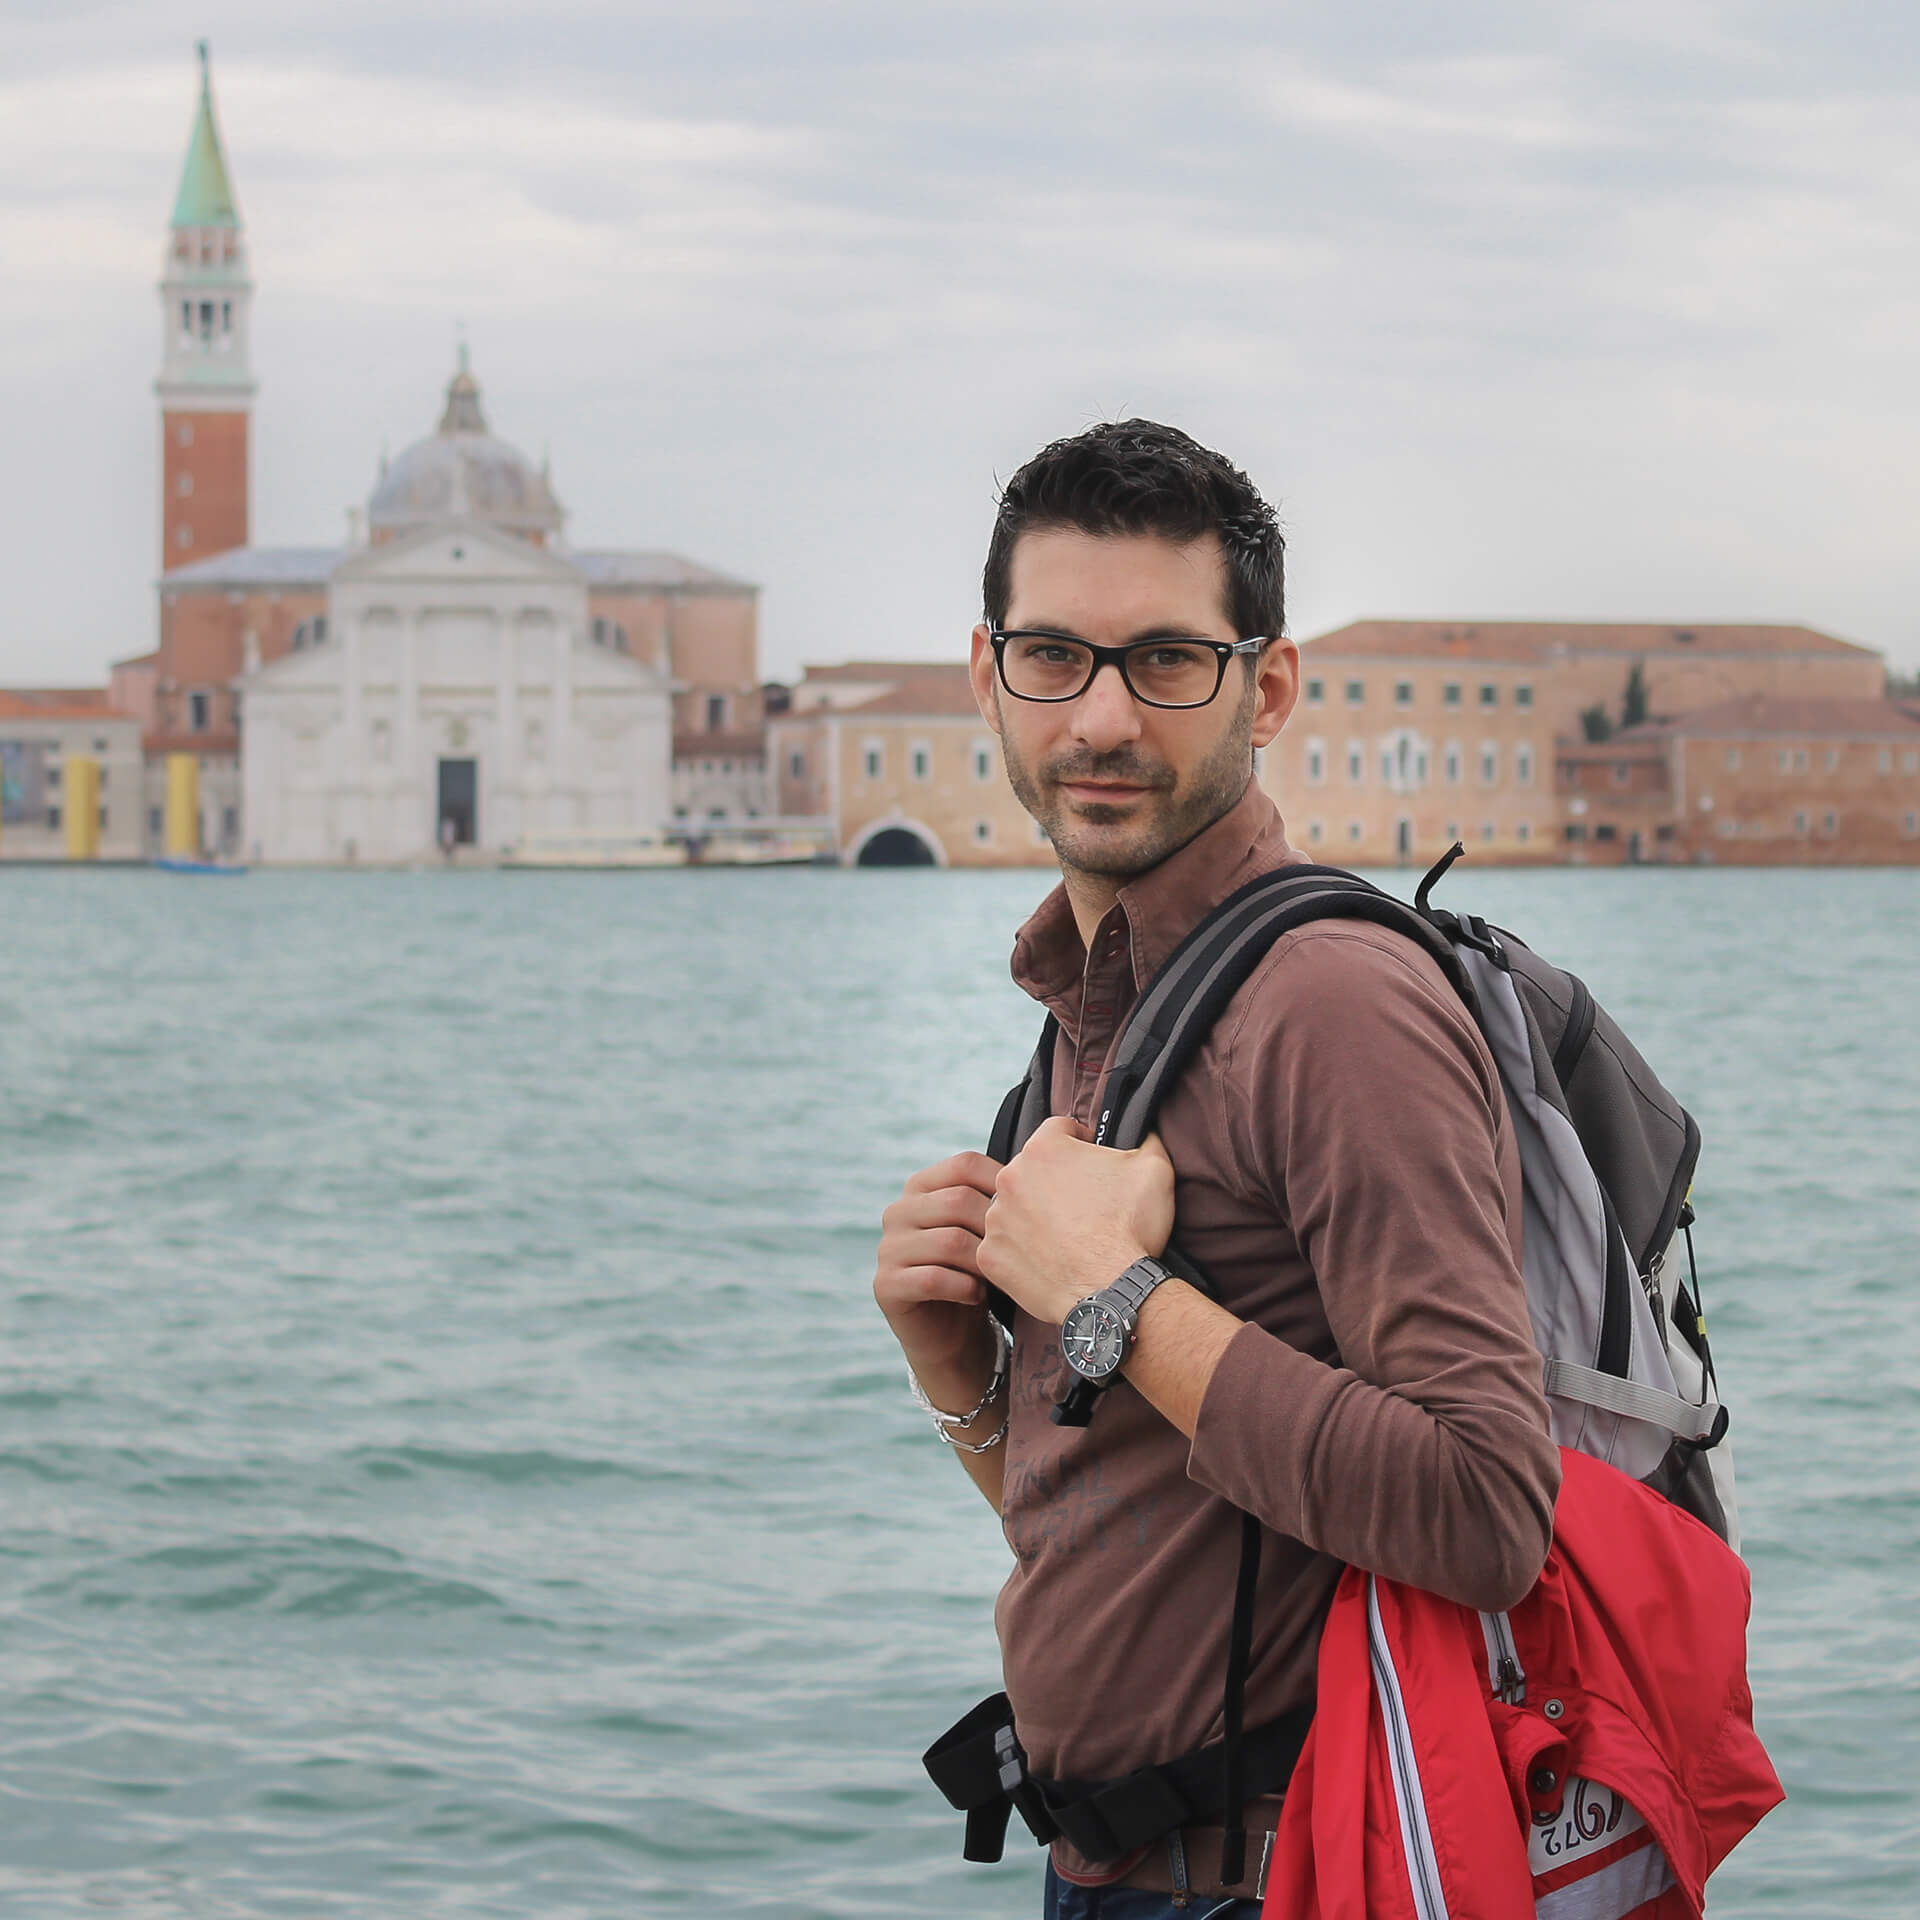
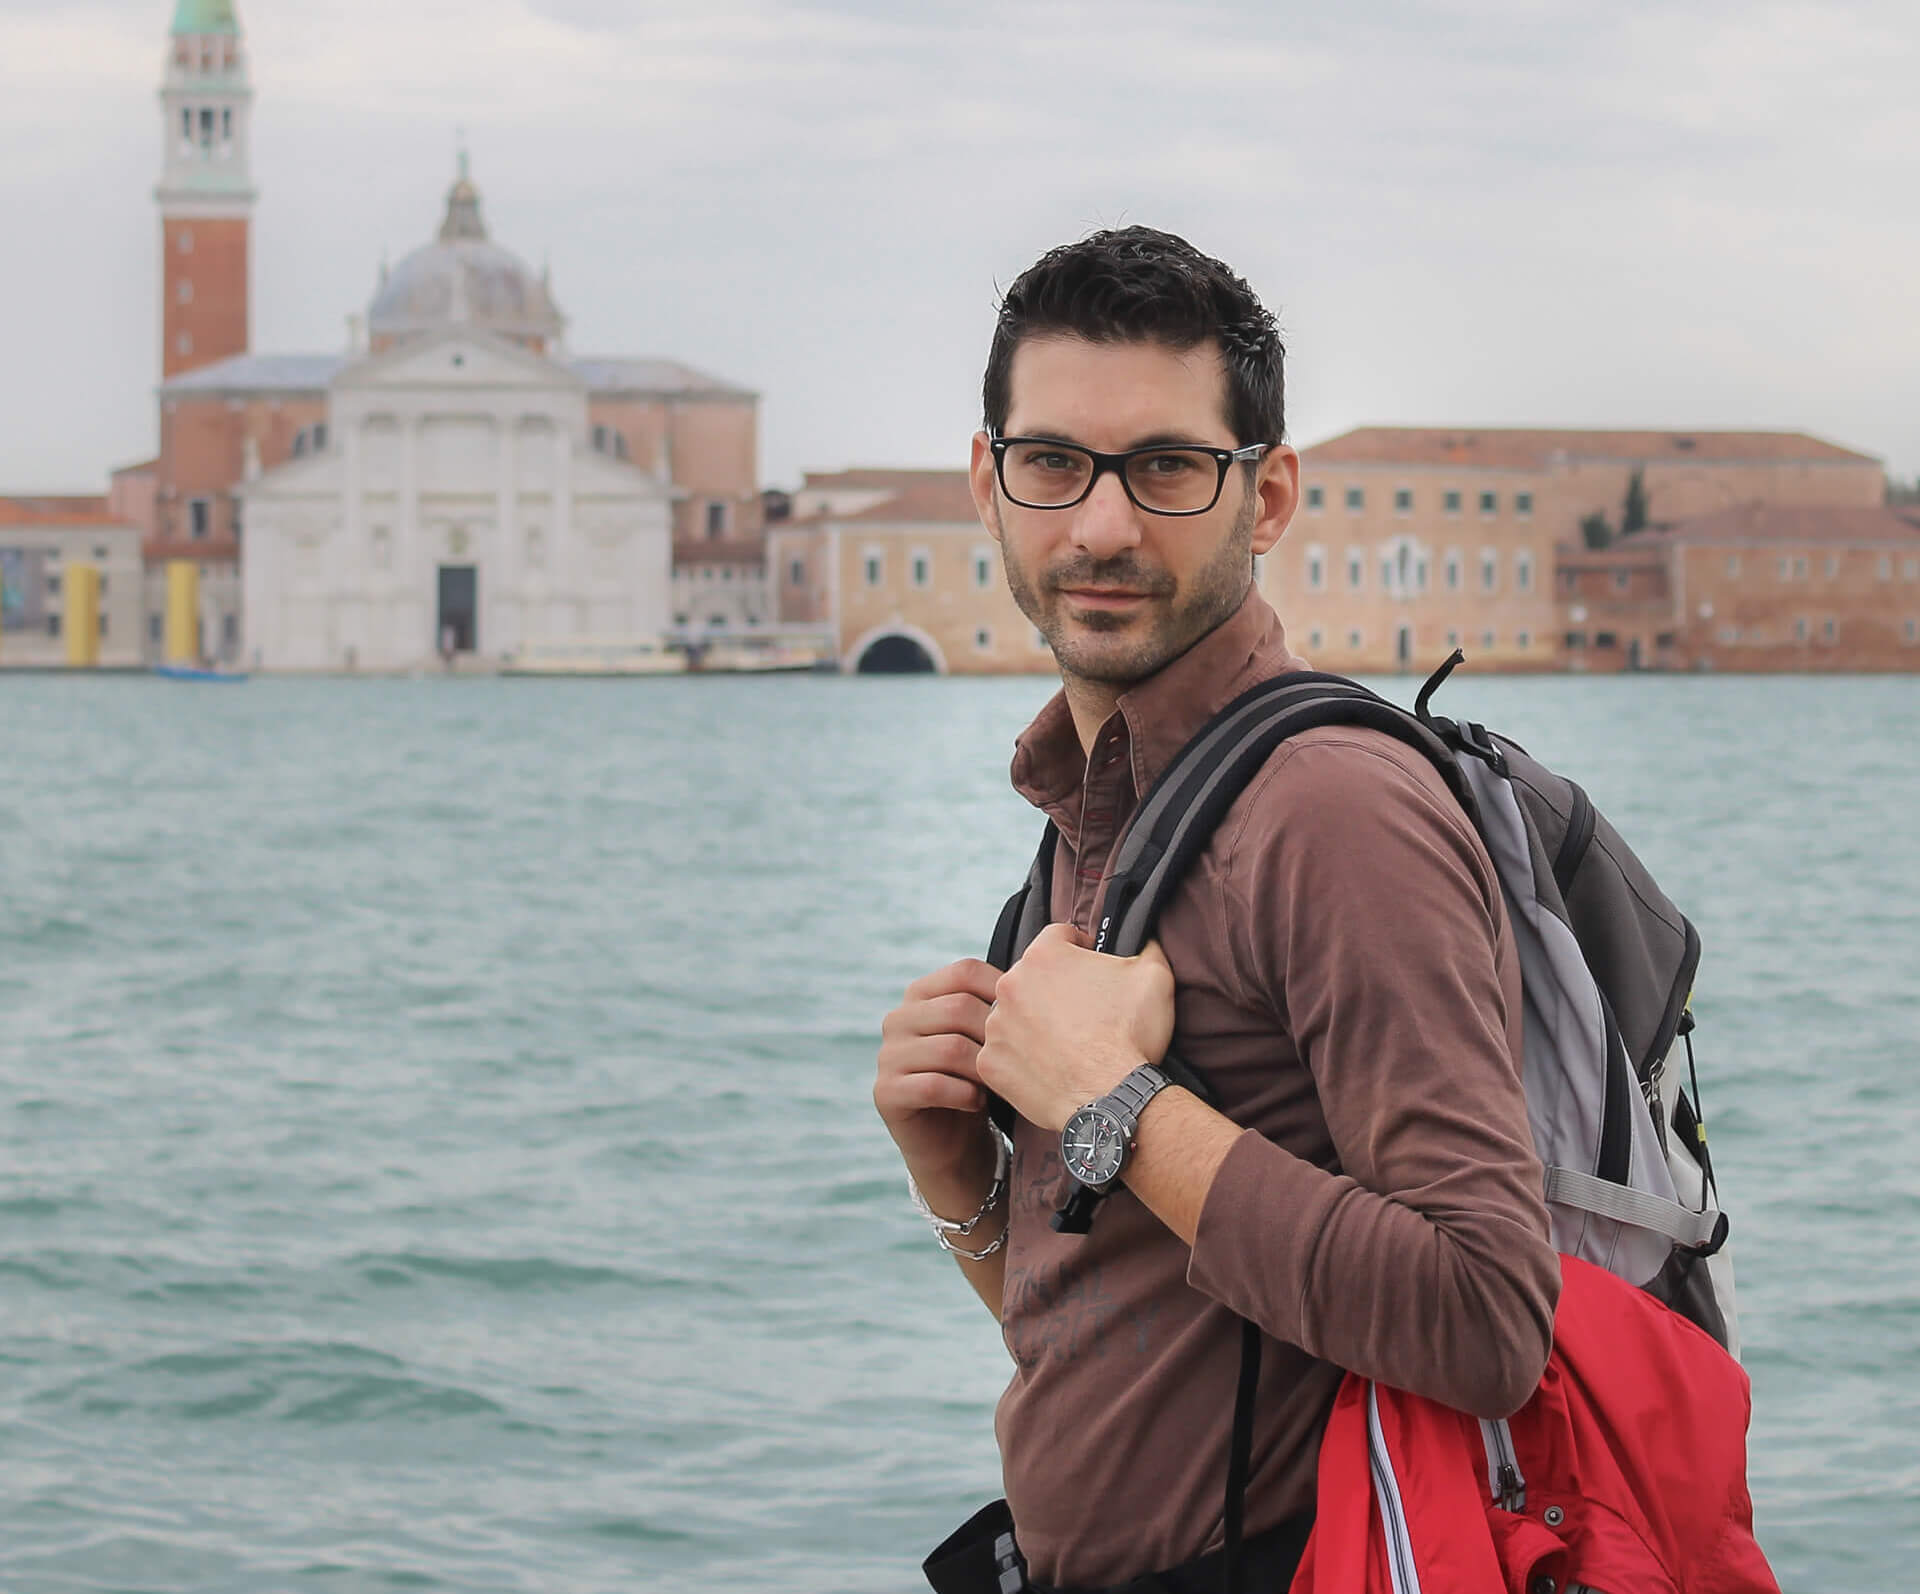
fixed email, images and gallery buttons

diff --git a/src/components/bio.js b/src/components/bio.js
@@ -6,35 +6,54 @@ import { GatsbyImage } from "gatsby-plugin-image";
 const Bio = ({ data }) => {
   const {
     bioImage: {
-      edges: [{ node }],
+      edges: [{ node: contestPic }, { node: bioPic }],
     },
   } = data;
   return (
     <Container>
+      {console.log(contestPic)}
       <Title>
         <h2>BIO</h2>
       </Title>
       <Content>
         <Image>
           <GatsbyImage
-            image={node.childImageSharp.gatsbyImageData}
-            alt={node.base}
+            image={bioPic.childImageSharp.gatsbyImageData}
+            alt={bioPic.base}
           />
         </Image>
         <Text>
           <h3>Chi sono</h3>
           <p>
-            Lorem ipsum dolor sit amet, consectetur adipiscing elit. Donec a
-            metus ligula. Cras eu ornare quam. Cras sed accumsan nunc. Nullam
-            auctor mattis venenatis. Vestibulum ante ipsum primis in faucibus
-            orci luctus et ultrices posuere cubilia curae; Proin at ornare
-            magna. Interdum et malesuada fames ac ante ipsum primis in faucibus.
-            Pellentesque habitant morbi tristique senectus et netus et malesuada
-            fames ac turpis egestas. Quisque ac congue ante, quis vestibulum
-            orci. Fusce interdum libero sem, sed placerat metus tempus eget.
-            Cras non tortor quis purus eleifend porttitor non non tortor.
+            Emanuele Palummieri è nato nel 1980 a Manduria (Ta), dove tuttora
+            vive e trascorre la propria quotidianità unitamente alla sua
+            famiglia. L'arte della fotografia costituisce per Emanuele, che di
+            professione fa l'acconciatore, lo strumento attraverso il quale
+            esprimere il proprio amore per il creato in tutte le sue forme. È
+            infatti tramite l'obiettivo della sua fidata reflex che riesce a
+            coglierne l'essenza e, al contempo, trasmettere agli altri il
+            percepito del suo mondo interiore. In questa prima fase di crescita
+            artistica è l'attenta osservazione del paesaggio ad attirare
+            maggiormente la sua attenzione; ogni occasione è buona per
+            imbracciare la sua macchina e compiere un salto dimensionale, che
+            gli permetta di estraniarsi dalla frenesia della vita mondana ed
+            immergersi mente e corpo nell'assoluta contemplazione della natura.
           </p>
         </Text>
+        <Contest>
+          <GatsbyImage
+            image={contestPic.childImageSharp.gatsbyImageData}
+            alt={contestPic.base}
+          />
+          <p>
+            <span>"Alle prime luci dell'alba"</span> - foto scattata subito dopo
+            l'aurora in località fiume Borraco, sulla litoranea salentina, a
+            Manduria (Ta). Questa foto, oltre ad essere un esempio tangibile dei
+            momenti di contemplazione e di fuga del fotografo, cui si è fatto
+            riferimento poc'anzi, gli è anche valsa la vittoria ad un noto
+            concorso di fotografia amatoriale.
+          </p>
+        </Contest>
       </Content>
     </Container>
   );
@@ -49,7 +68,7 @@ const Content = styled.div`
   font-family: "Crimson Pro", serif;
 `;
 const Image = styled.div`
-  flex: 1 320px;
+  flex: 1 360px;
   margin: 0 20px 24px 10px;
   @media screen and (max-width: 768px) {
     margin: 0 10px 24px;
@@ -67,11 +86,30 @@ const Text = styled(Image)`
     font-weight: 500;
   }
   p {
-    font-size: 17px;
+    font-size: 18px;
     line-height: 1.4em;
     color: #a5a5a5;
     @media screen and (max-width: 930px) {
       font-size: 16px;
     }
+  }
+`;
+const Contest = styled.div`
+  margin-top: 1em;
+  width: 100%;
+  display: flex;
+  flex-direction: column;
+  padding: 0 10px;
+  p {
+    margin-top: 24px;
+    font-size: 18px;
+    line-height: 1.4em;
+    color: #a5a5a5;
+    @media screen and (max-width: 930px) {
+      font-size: 16px;
+    }
+  }
+  span {
+    color: #e5e5e5;
   }
 `;

diff --git a/src/pages/contatti.js b/src/pages/contatti.js
@@ -3,7 +3,7 @@ import styled from "styled-components";
 import Layout from "../components/layout";
 import { Title } from "../components/galleries";
 import { Link } from "gatsby";
-import { BsWhatsapp } from "react-icons/bs";
+import { BsWhatsapp, BsMessenger } from "react-icons/bs";
 import Seo from "../components/seo";
 
 const ContattiPage = () => {
@@ -13,7 +13,7 @@ const ContattiPage = () => {
         slug={"/contatti"}
         title={"Contatti"}
         description={
-          "La sezione contatti è ricca di strumenti per raggiungere Emanuele Palummieri per eventuali richieste, commissioni e preventivi, quali Facebook, WhatsApp e la sua mail."
+          "La sezione contatti è ricca di recapiti per raggiungere Emanuele Palummieri per eventuali richieste, commissioni e preventivi, quali Facebook, WhatsApp e la sua mail."
         }
       />
       <Top>
@@ -35,7 +35,9 @@ const ContattiPage = () => {
         <Contacts>
           <Category>Email:</Category>
           <Description>
-            <a href="mailto:info@gmail.com">info@gmail.com</a>
+            <a href="mailto:emanuelepalummieri@yahoo.it">
+              emanuelepalummieri@yahoo.it
+            </a>
           </Description>
         </Contacts>
         <Contacts>
@@ -57,10 +59,13 @@ const ContattiPage = () => {
           </Description>
         </Contacts>
         <WhatsApp>
-          <p>Anche su Whatsapp:</p>
-          <a href="https://wa.me/393931440205">
+          <p>Anche su Whatsapp e Messenger:</p>
+          <IconLink href="https://wa.me/393931440205">
             <WhatsAppIcon />
-          </a>
+          </IconLink>
+          <IconLink variant href="https://m.me/emanuele.palummieri">
+            <MessengerIcon />
+          </IconLink>
         </WhatsApp>
       </Top>
     </Layout>
@@ -129,22 +134,35 @@ const WhatsApp = styled.div`
     font-family: "Crimson Pro", serif;
     margin-right: 1em;
   }
-  a {
-    display: flex;
-    justify-content: center;
-    align-items: center;
-    background: #25b63d;
-    width: 45px;
-    height: 45px;
-    border-radius: 50%;
-    cursor: pointer;
-    transition: background 0.5s;
-    &:hover {
-      background: #1e9e33;
-    }
+  @media screen and (max-width: 450px) {
+    flex-direction: column;
+    align-items: flex-start;
+    gap: 0.75rem;
+  }
+`;
+const IconLink = styled.a`
+  display: flex;
+  margin-right: 0.75rem;
+  justify-content: center;
+  align-items: center;
+  background: ${(props) => (props.variant ? "#1165E9" : "#25b63d")};
+  width: 40px;
+  height: 40px;
+  border-radius: 50%;
+  cursor: pointer;
+  transition: background 0.25s;
+  &:hover {
+    background: ${(props) => (props.variant ? "#1256C3" : "#1e9e33")};
   }
 `;
 const WhatsAppIcon = styled(BsWhatsapp)`
+  width: 60%;
+  height: auto;
+  path {
+    fill: #fff;
+  }
+`;
+const MessengerIcon = styled(BsMessenger)`
   width: 60%;
   height: auto;
   path {

diff --git a/src/pages/index.js b/src/pages/index.js
@@ -4,7 +4,7 @@ import { graphql } from "gatsby";
 import HomeSlider from "../components/homeSlider";
 import Galleries from "../components/galleries";
 import Bio from "../components/bio";
-import CookieConsent from "react-cookie-consent";
+import Cookies from "../components/cookies";
 import Seo from "../components/seo";
 
 // markup
@@ -15,29 +15,7 @@ const IndexPage = ({ data }) => {
       <HomeSlider data={data} />
       <Galleries data={data} />
       <Bio data={data} />
-      <CookieConsent
-        style={{
-          background: "#1e1c19",
-          fontFamily: "Source Sans Pro",
-          fontSize: "18px",
-          fontWeight: "400",
-          padding: "15px",
-        }}
-        buttonStyle={{
-          background: "#dba63c",
-          color: "#1e1c19",
-          fontFamily: "Source Sans Pro",
-          fontSize: "16px",
-          fontWeight: "600",
-          borderRadius: "12px",
-          padding: "10px 30px",
-        }}
-        contentStyle={{ flex: "1 0 200px" }}
-        buttonText="Ho capito"
-      >
-        Questo sito potrebbe fare uso di cookies per migliorare l'esperienza
-        d'uso.
-      </CookieConsent>
+      <Cookies />
     </Layout>
   );
 };
@@ -83,8 +61,7 @@ export const homeSliderQuery = graphql`
             gatsbyImageData(
               placeholder: BLURRED
               transformOptions: { cropFocus: CENTER, fit: COVER }
-              width: 700
-              aspectRatio: 1.2
+              width: 980
             )
           }
           base

diff --git a/src/components/galleries.js b/src/components/galleries.js
@@ -11,15 +11,18 @@ const Galleries = ({ data }) => {
   const dataObj = [
     {
       title: "Natura",
-      text: "Lorem ipsum dolor sit amet, consectetur adipiscing elit. Nullam a mattis velit, eget viverra ipsum. Vivamus sit amet felis a dolor tempor tincidunt. Vestibulum eu ipsum turpis. Nam pretium turpis.",
+      text: "Guardare la bellezza della natura è il primo passo per purificare la mente.",
+      author: "A. Ray",
     },
     {
       title: "Paesaggi",
-      text: "Lorem ipsum dolor sit amet, consectetur adipiscing elit. Nullam a mattis velit, eget viverra ipsum. Vivamus sit amet felis a dolor tempor tincidunt. Vestibulum eu ipsum turpis. Nam pretium turpis.",
+      text: "Ogni paesaggio ha la sua storia: quella che leggiamo, quella che sogniamo, e quella che creiamo.",
+      author: "M. Kennedy",
     },
     {
-      title: "Urbano",
-      text: "Lorem ipsum dolor sit amet, consectetur adipiscing elit. Nullam a mattis velit, eget viverra ipsum. Vivamus sit amet felis a dolor tempor tincidunt. Vestibulum eu ipsum turpis. Nam pretium turpis.",
+      title: "Street",
+      text: "Una città non è disegnata, semplicemente si fa da sola. Basta ascoltarla, perchè la città è il riflesso di tante storie.",
+      author: "R. Piano",
     },
   ];
   return (

diff --git a/src/components/cookies.js b/src/components/cookies.js
@@ -1,0 +1,32 @@
+import React from "react";
+import CookieConsent from "react-cookie-consent";
+
+const Cookies = () => {
+  return (
+    <CookieConsent
+      style={{
+        background: "#1e1c19",
+        fontFamily: "Source Sans Pro",
+        fontSize: "18px",
+        fontWeight: "400",
+        padding: "15px",
+      }}
+      buttonStyle={{
+        background: "#dba63c",
+        color: "#1e1c19",
+        fontFamily: "Source Sans Pro",
+        fontSize: "16px",
+        fontWeight: "600",
+        borderRadius: "12px",
+        padding: "10px 30px",
+      }}
+      contentStyle={{ flex: "1 0 200px" }}
+      buttonText="Ho capito"
+    >
+      Questo sito potrebbe fare uso di cookies per migliorare l'esperienza
+      d'uso.
+    </CookieConsent>
+  );
+};
+
+export default Cookies;

diff --git a/src/pages/galleria.js b/src/pages/galleria.js
@@ -14,7 +14,7 @@ import Gridshow from "../components/gridshow";
 import Seo from "../components/seo";
 
 const GalleriaPage = ({ data, location }) => {
-  const buttons = ["Tutte", "Natura", "Paesaggi", "Urbano"];
+  const buttons = ["Tutte", "Natura", "Paesaggi", "Street"];
   const views = ["Slide", "Grid"];
   const { state = {} } = location;
   const { filter } = state;
@@ -36,6 +36,8 @@ const GalleriaPage = ({ data, location }) => {
       const urbano = data["urbano"].edges;
       const allData = { edges: natura.concat(paesaggi, urbano) };
       setActiveData(allData);
+    } else if (activeButton === "Street") {
+      setActiveData(data["urbano"]);
     } else {
       setActiveData(data[activeButton.toLowerCase()]);
     }

diff --git a/src/components/card.js b/src/components/card.js
@@ -26,6 +26,7 @@ const Card = (props) => {
           </StyledLink>
         </h3>
         <p>{data.text}</p>
+        <span>- {data.author}</span>
       </Text>
     </Container>
   );
@@ -39,7 +40,6 @@ const Container = styled.div`
   display: flex;
   flex-direction: column;
   margin: 0 10px 40px;
-  align-items: center;
   @media screen and (max-width: 756px) {
     flex-basis: 680px;
   }
@@ -88,5 +88,10 @@ const Text = styled.div`
     font-size: 17px;
     line-height: 1.4em;
     color: #a5a5a5;
+    margin-bottom: 0.3em;
+  }
+  span {
+    color: #e5e5e5;
+    font-size: 15px;
   }
 `;

diff --git a/src/components/footer.js b/src/components/footer.js
@@ -37,7 +37,10 @@ const Footer = () => {
         <Contatti>
           <p>Contatti</p>
           <p>
-            <MailIcon /> <a href="mailto:info@gmail.com">info@gmail.com</a>
+            <MailIcon />{" "}
+            <a href="mailto:emanuelepalummieri@yahoo.it">
+              emanuelepalummieri@yahoo.it
+            </a>
           </p>
           <p>
             <FacebookIcon />{" "}
